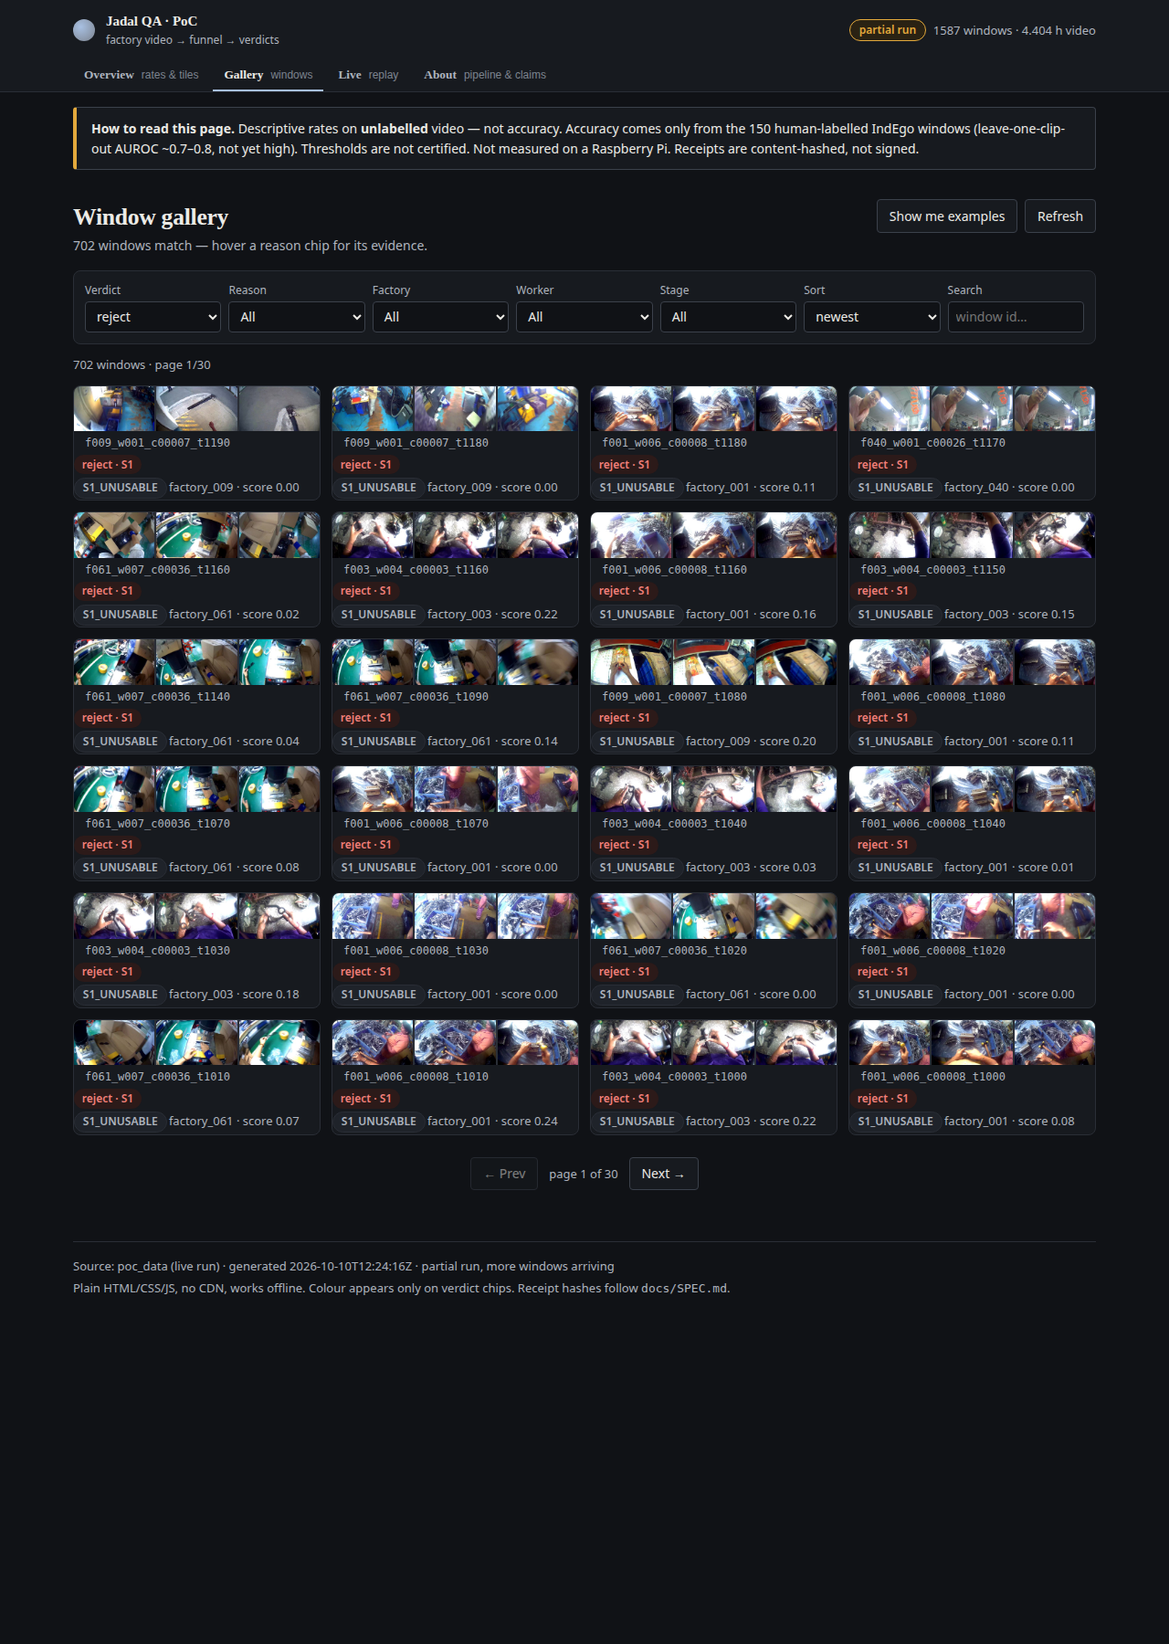
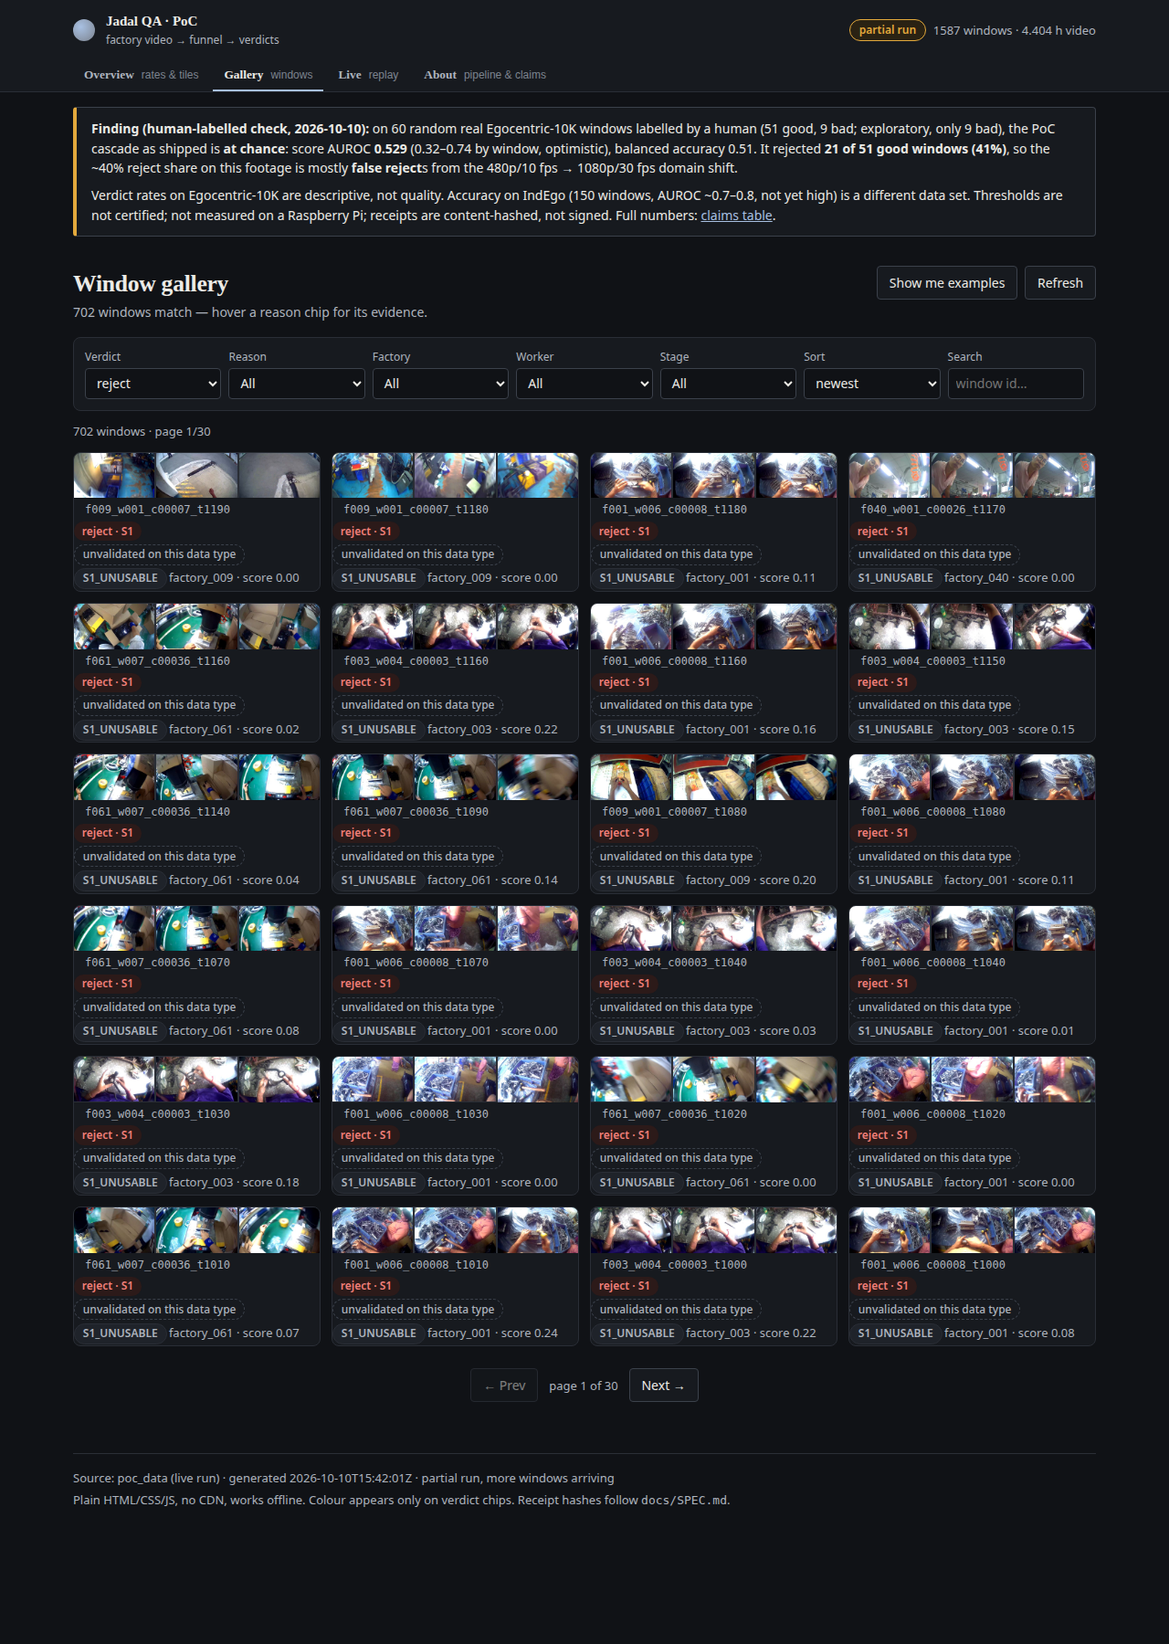
poc: retake screens from the current build; flag licensed frames; fold in poc_run report
- docs/screens/poc_*.png retaken with headless Chrome from the current code on
  real poc_data; each 1280-wide screen shows the out-of-domain banner.
- docs/screens/README.md and docs/PUBLIC_SNAPSHOT_EXCLUDE.txt: the screenshots
  and demo clip show real Egocentric-10K frames (licensed, private repo only);
  list the paths excluded from any public snapshot.
- .gitignore: .scratch/ and the regenerable fixture thumbnails.
- docs/reports/poc_run.md (from feat/poc-run): numbers now match
  run_summary.json (1587 unique windows, 709/702/176, partial false) and add
  the out-of-domain result.
- docs/reports/poc_dashboard.md and docs/POC_STATUS.md match the screens and
  point at the evidence files.

diff --git a/docs/POC_STATUS.md b/docs/POC_STATUS.md
@@ -8,19 +8,23 @@
 > ~0.7–0.8, not yet high) is a different data set. Thresholds are not certified.
 > Not measured on a Raspberry Pi. Receipts are content-hashed, not signed.
 
-## What runs (integration/poc, all merged)
+## What runs (integration/poc)
 
 - **Batch run** (`scripts/poc_run.py`): real Egocentric-10K 1080p/30fps HEVC
-  clips → 10-s windows → S0/S1 cascade → `poc_data/windows.jsonl` + 3 thumbs
-  per window + `summary.json` + content-hashed receipt per window.
+  clips -> 10-s windows -> S0/S1 cascade -> `poc_data/windows.jsonl` + 3 thumbs
+  per window + content-hashed receipt per window.
 - **Dashboard** (`scripts/poc_server.py`, stdlib only, offline, no CDN):
-  Overview tiles + reason bars + per-factory stacks + time-to-verdict,
-  Gallery with filters + pitch examples, Detail drawer with evidence table
-  and **Re-verify** button (`POST /api/reverify/<id>` → `poc_run.py --verify`),
-  Live replay panel, About claims table.
+  Overview, Gallery (filters, pitch selection), Detail drawer with Re-verify
+  (`POST /api/reverify/<id>` -> `poc_run.py --verify`, Host/Origin checked),
+  Live replay panel (scripted blackout, labelled as such), About claims table.
 - **Live replay** (`scripts/poc_stream_replay.py` + `jadal/poc_stream/`):
-  2-second chunks, scripted blackout/freeze/blur, S0 early reject, events to
-  `poc_data/stream_events.jsonl`.
+  2-second chunks of a real clip with a **scripted** blackout injected at t=12 s
+  (not from the footage) -> S0 early reject -> `poc_data/stream_events.jsonl`.
+- **Evidence and summaries** (committed, regenerable):
+  - `eval/poc/summarize.py` -> `eval/results/poc/run_summary.json` (counts, hours,
+    factories, latency percentiles, computed from `windows.jsonl` with dedupe).
+  - `eval/poc/ood_check.py` -> `eval/results/poc/ood_check_60.json` (the 60-window
+    human-labelled check below).
 
 ## How to start the demo (one command)
 
@@ -29,58 +33,77 @@
 # dashboard: http://localhost:8840/  (overview, gallery, live, about)
 ```
 
-- Serves the **real** `poc_data` (never `--demo-fixture`). Port 8840 is
-  currently served by pid 3824977 (poc-dashboard worktree, identical server
-  code, real data) — `poc_up.sh` detects and reuses it, kills nothing.
-- `--replay` replays a real clip in 2-s chunks with a blackout at t=12 s;
-  the Live panel then shows the early reject. Cleans up only PIDs it started.
+- Serves the **real** `poc_data` (never `--demo-fixture`). If port 8840 is already
+  served, `poc_up.sh` reports the owning PID and reuses it; it kills nothing it
+  did not start.
+- Paths are set by env vars with defaults: `JADAL_PY` (python3 on PATH),
+  `JADAL_POC_DATA` (`../poc_data`), `JADAL_CLIP_ROOT` (`../../awing/data/ego10k_scale/clips`).
 
 ## Measured numbers (from files, not claims)
 
-Batch run (`poc_data/summary.json` + `windows.clean.jsonl` snapshot, partial run):
+Batch run, from `eval/results/poc/run_summary.json` (`partial: false`):
 
-- 1587 windows · 4.404 h video · accept 709 (44.7%) · reject 702 (44.2%) ·
-  review/S2 176 (11.1%) · stages S1 1411 / S2 176 / S0 0
-- 0 duplicate window_ids, 0 malformed lines, 0 missing thumbs (4761 checked)
-- per-window sequential latency p50 548 ms / 10-s window (RTF ≈ 18×);
-  dashboard throughput tile 17.91 h video per wall-h; decode `cpu-sequential`
-- re-verify: **5/5** random windows reproduce stored `receipt_sha256`
-  (`f029…`, `f009…`, `f033…`, `f058…`, `f003…`, CPU sequential recompute)
-- full suite: **662 tests green** (4 skipped)
+- 1587 unique windows (0 duplicate, 0 malformed lines) · 4.404 h video · 58 clips · 47 factories
+- accept 709 (44.7%) · reject 702 (44.2%) · review/S2 176 (11.1%)
+- stages S0 0 / S1 1411 / S2 176
+- per-window sequential latency p50 548.1 ms, p90 699.2 ms (RTF about 18x; the
+  dashboard tile shows 17.91 video-hours per compute-hour, concurrency excluded)
+- Re-verify: 5 sampled windows reproduced their stored receipt in the run log
+  (not committed as a file; use `poc_run.py --verify <id>` to repeat one).
 
-Replay (measured 2026-10-10): 16 chunks, blackout at t=12 s → S0 `black`
+Replay (measured 2026-10-10): 16 chunks, scripted blackout at t=12 s -> S0 `black`
 rule fires (`p95 0.0 < 0.03`), time-to-reject 0.0 s of video, mean chunk
-latency 533.5 ms, 9.3 s wall, ~171 MB RAM, CPU decode.
+latency 533.5 ms, 9.3 s wall, ~171 MB RAM, CPU decode. The blackout is injected
+by the script; it is not an event in the footage.
 
-Accuracy (only labelled data, `eval/results/perpixel/compare.json`):
-nested leave-one-clip-out on 7 IndEgo clips / 150 windows — conv1d AUROC
-**0.782** (95% CI 0.63–0.86), quality-stage sens 0.714 / bal_acc 0.792.
+Accuracy on labelled IndEgo data (`eval/results/gpu/cascade.json`, the shipped
+S1 logistic head): leave-one-clip-out AUROC **0.80** (95% CI 0.71-0.87), n = 150,
+threshold 0.6. Not certified; n is small. A different model, the 1D-conv
+(`eval/results/perpixel/compare.json`, AUROC 0.782, CI 0.63-0.86), is not shipped.
 
 ## Human-labelled out-of-domain check
 
-60 random real Egocentric-10K windows, labelled by a human: 51 good, 9 bad
-(8 no active work, 1 shaky). Exploratory: n_bad = 9.
+`eval/results/poc/ood_check_60.json` (from `eval/poc/ood_check.py`): 60 random
+real Egocentric-10K windows, labelled by a human: 51 good, 9 bad. The labels are
+joined to the PoC verdicts by source clip and nearest window start. Exploratory:
+n_bad = 9 is below the pre-registered minimum of 10, and the window-level bootstrap
+CI is optimistic.
 
 - PoC cascade as shipped (IndEgo-calibrated): score AUROC **0.529**
-  (0.32–0.74 by window, optimistic); balanced accuracy 0.51.
-- Rejected **21 of 51 good windows (41%)** and 5 of 9 bad ones.
-- Frozen two-view ensemble on the same windows: AUROC 0.415.
-- Frozen per-pixel scorer on the same windows: AUROC 0.515.
+  (window-bootstrap CI 0.32-0.73); balanced accuracy 0.51.
+- Rejected **21 of 51 good windows (41%)**; 24 accepted, 6 review. Bad windows:
+  5 rejected, 4 accepted.
+- Two other scorers, **reported, not recomputed here** (they live on other
+  branches): frozen two-view ensemble `ensemble_v1` AUROC 0.415
+  (`handover/ood_eval_ensemble_v1_exploratory.txt`); frozen per-pixel scorer
+  AUROC 0.515 (`jadal-ops/explainer/FACTS.md`). The FACTS lines are copied into
+  the JSON with their source line numbers.
 - The ~40% reject share shown on Egocentric-10K is therefore mostly false
-  rejects, caused by the 480p/10 fps (IndEgo) → 1080p/30 fps HEVC (Egocentric-10K)
-  domain shift.
+  rejects, caused by the 480p/10 fps (IndEgo) -> 1080p/30 fps HEVC
+  (Egocentric-10K) domain shift.
 
 Verdict rates on this footage are descriptive, not quality.
 
-Source: `jadal-ops/explainer/FACTS.md`, section "UPDATE 2026-10-10 18:40".
+## Licensed frames in this repo (read before any public snapshot)
+
+- `docs/screens/poc_*.png` and `docs/screens/poc_demo_backup.mp4` show real
+  Egocentric-10K frames. The dataset is licensed. This repo is private; do not
+  make it public, and do not copy these files into a public snapshot.
+- `docs/PUBLIC_SNAPSHOT_EXCLUDE.txt` lists every path pattern to exclude from a
+  public snapshot. `docs/screens/README.md` explains the screenshots.
+- `tests/fixtures/poc/thumbs/` is git-ignored. Its JPEGs are generated by
+  `tests/make_poc_fixture.py` and are synthetic colour boxes; they are still
+  listed in the exclude file.
+- The per-pixel `.npz` files under `eval/results/perpixel/` are features derived
+  from the licensed footage (no pixels), and are listed too.
 
 ## Not claimed
 
-- **No Egocentric-10K quality claim**: the video is unlabelled in the batch run.
-  The 44.2% reject share is descriptive. The 60-window human-labelled check
-  measured AUROC 0.529 (chance), 21 of 51 good windows falsely rejected (41%),
-  balanced accuracy 0.51, and frozen two-view 0.415 / per-pixel 0.515 on the
-  same windows (see "Human-labelled out-of-domain check").
+- **No Egocentric-10K quality claim**: the batch run is unlabelled. The 44.2%
+  reject share is descriptive. The 60-window check measured AUROC 0.529 (chance),
+  21 of 51 good windows falsely rejected (41%), balanced accuracy 0.51
+  (`eval/results/poc/ood_check_60.json`); frozen two-view 0.415 and per-pixel
+  0.515 are reported from other branches.
 - Not measured on a Pi (RTX 4070 Laptop, not datacenter, not a Pi).
 - Receipts content-hashed (sha256), not signed; no certificate chain.
 - RGB only — no hyperspectral. Certified bounds not achievable at n=150.

diff --git a/docs/reports/poc_run.md b/docs/reports/poc_run.md
@@ -3,7 +3,10 @@
 **Honesty banner (binding): there are NO human labels for this Egocentric-10K
 video; every number below is a descriptive rate on unlabelled video, NOT
 accuracy.** Accuracy comes only from the 150 human-labelled IndEgo windows
-(LOCO AUROC 0.80, 95% CI 0.71–0.87 — wide, n=150 too small for certification).
+(shipped S1 logistic head, LOCO AUROC 0.80, 95% CI 0.71–0.87 — `eval/results/gpu/cascade.json`;
+wide, n=150 too small for certification). The one labelled check on THIS footage
+(60 windows, 51 good / 9 bad, n_bad below the pre-registered 10, so exploratory)
+is at chance: see "Out-of-domain result" below.
 Thresholds are not certified. Not measured on a Raspberry Pi. Receipts are
 content-hashed, not signed. RGB only (3 bands) — hyperspectral is NOT claimed.
 
@@ -43,39 +46,63 @@ Production: `cpu-sequential` (deterministic, no GPU contention). NVDEC chain B
 `flock tools/gpu.lock` (300 frames/10 s window in 2.33 s) but its pixels differ
 from CPU decode, so it is NOT mixed into one run. VRAM peak via nvidia-smi.
 
-## Results (`poc_data/summary.json`, generated 2026-10-10 ~12:15 UTC)
+## Results (`eval/results/poc/run_summary.json`, from `eval/poc/summarize.py --complete`)
 
-- **1587 windows, 4.404 h video from 58 clips** (47 factories/workers), `partial: false`
+- **1587 unique windows, 4.404 h video from 58 clips** (47 factories), `partial: false`
+  (the windows file has 1587 lines and 0 duplicates or malformed lines)
 - by_verdict: **accept 709 / reject 702 / review 176** (44.7% / 44.2% / 11.1%)
 - by_reason: S1_USABLE 709, S1_UNUSABLE 702, UNCERTAIN 176
-- by_stage: **S0 0 (0.0) / S1 1411 (0.889) / S2-review 176 (0.111)** — the S0
-  exact rules never fired on this well-lit moving factory footage, so the
-  early-reject tier exited nothing; all decisions fell to S1/S2.
-- throughput: **10.81 h video per wall hour (rtf 10.8)** across 3 parallel
-  CPU-sequential processes, ~24 min wall (first-to-last thumb mtime + startup);
-  features latency p50 548 ms/window (decode amortised per clip, O(1) memory)
-- decode_path: cpu-sequential ×1587; VRAM: none consumed (CPU-only run)
-- head: full-fit on 150 IndEgo gold, `head_sha256=d59955b512db1a1d…`,
-  threshold 0.6, margin 0.25
-- verify: `--verify` recompute MATCH; `--selfcheck 20` identical digests
-  (see below); `tests.test_poc_run` 9/9 pass
+- by_stage: **S0 0 / S1 1411 (88.9%) / S2 176 (11.1%)**. The S0 exact rules never
+  fired on this footage, so the early-reject tier exited nothing; all decisions
+  fell to S1 or S2 (handed on, not run).
+- latency per 10-s window (sequential, single process): p50 548.1 ms,
+  p90 699.2 ms, p99 1202.2 ms
+- throughput: **17.91 h video per h of summed sequential compute** (concurrency
+  and wall-clock not included; the dashboard tile shows the same value)
+- decode_path: cpu-sequential for all windows; no GPU memory used by the batch
+- head: full fit on the 150 IndEgo gold windows, `head_sha256=d59955b5…`,
+  threshold 0.6, margin 0.25 (`versions` in each window record)
+
+Re-verify: `scripts/poc_run.py --verify <WINDOW_ID>` recomputes one window and
+compares its receipt. Five sampled windows reproduced their stored receipt in the
+run log (not committed as a file).
+
+## Out-of-domain result (60 human-labelled windows)
+
+`eval/results/poc/ood_check_60.json` (from `eval/poc/ood_check.py`): the windows
+were labelled by a human (51 good, 9 bad) and joined to their verdicts by clip and
+start time.
+
+- PoC score AUROC **0.529** (window bootstrap 95% CI 0.316–0.728): chance.
+- **21 of 51 good windows falsely rejected** (41%); 24 accepted, 6 review.
+- bad windows: 4 accepted, 5 rejected.
+- balanced accuracy 0.51.
+- Exploratory: n_bad = 9 is below the pre-registered minimum of 10, and the
+  window-level CI is optimistic because windows from one clip are not independent.
+- Two other scorers, reported and not recomputed here: frozen two-view ensemble
+  0.415 (`handover/ood_eval_ensemble_v1_exploratory.txt`), per-pixel scorer 0.515
+  (`jadal-ops/explainer/FACTS.md`).
+
+So the ~44% reject share on this footage is mostly false rejects, not a quality
+measurement.
 
 ## Domain-shift finding
 
-The IndEgo head rejects most factory footage (bright, high-motion:
-luma_mean 0.53 vs 0.30 gold; luma_p05 z≈+26; temp_b2/motion_energy high) with
-p≈0 — the head's negatives were dark/frozen/blurred IndEgo, so a bright busy
-factory floor lands far from its training manifold. This is a descriptive
-finding about operating-point transfer, NOT an accuracy claim: the 0.6
-threshold does not transfer to Egocentric-10K without labelled calibration.
+The IndEgo head rejects most of this footage. The cause is operating-point
+transfer: the head was calibrated on 480p/10 fps IndEgo, and this input is
+1080p/30 fps HEVC. The out-of-domain check above shows the 0.6 threshold does not
+transfer without labelled calibration. Brightness statistics (luma_mean and
+similar) that suggest why are observations from the run notes and are not in a
+committed results file.
 
 ## Reproduce
 
 ```
-OMP_NUM_THREADS=2 /home/parshu/envs/jadal/bin/python scripts/poc_run.py --all --shard 0/3
-OMP_NUM_THREADS=2 /home/parshu/envs/jadal/bin/python scripts/poc_run.py --verify <WINDOW_ID>
-OMP_NUM_THREADS=2 /home/parshu/envs/jadal/bin/python scripts/poc_run.py --selfcheck 20
-OMP_NUM_THREADS=2 /home/parshu/envs/jadal/bin/python scripts/poc_run.py --summary
-PYTHONNOUSERSITE=1 JADAL_MODELS_DIR=/home/parshu/projects/jadal-qa/models \
-  /home/parshu/envs/jadal/bin/python -m unittest tests.test_poc_run
+# env: JADAL_PY (interpreter, default python3), JADAL_POC_DATA, JADAL_CLIP_ROOT
+OMP_NUM_THREADS=2 $JADAL_PY scripts/poc_run.py --all --shard 0/3
+OMP_NUM_THREADS=2 $JADAL_PY scripts/poc_run.py --verify <WINDOW_ID>
+OMP_NUM_THREADS=2 $JADAL_PY scripts/poc_run.py --selfcheck 20
+python3 eval/poc/summarize.py --complete
+python3 eval/poc/ood_check.py
+PYTHONNOUSERSITE=1 JADAL_MODELS_DIR=<models dir> $JADAL_PY -m unittest tests.test_poc_run
 ```

diff --git a/docs/reports/poc_dashboard.md b/docs/reports/poc_dashboard.md
@@ -7,8 +7,9 @@ SVG, no CDNs, works offline), served by `scripts/poc_server.py` (stdlib only,
 ## How to run
 
 ```
-python3 scripts/poc_server.py --demo-fixture   # fixture data (default: live poc_data)
-python3 tests/test_poc_dashboard.py            # 9 tests, ~0.6 s
+python3 scripts/poc_server.py --port 8840                 # real poc_data (JADAL_POC_DATA)
+python3 scripts/poc_server.py --demo-fixture --port 8849  # fixture data, for tests
+$JADAL_PY tests/test_poc_dashboard.py                      # 19 tests, ~1 s
 ```
 
 Server reads `poc_data/{summary.json,windows.jsonl,stream_events.jsonl,thumbs/}`
@@ -16,43 +17,72 @@ fresh on every request (3 s client poll, `partial run` badge while
 `summary.partial` is true). Latest-first gallery page uses a tail read
 (`collections.deque`); filtered views do one streaming pass. Thumbnails are
 served with basename + realpath containment checks. `POST /api/reverify/<id>`
-validates `^[A-Za-z0-9_.-]+$` and execs only
-`["python3", "scripts/poc_run.py", "--verify", <id>]` (60 s timeout); with no
-`poc_run.py` yet it returns 503 "not available yet".
+validates the id (`^[A-Za-z0-9_.][A-Za-z0-9_.-]*$`, so no leading `-`), checks
+that Host is `127.0.0.1:<port>` or `localhost:<port>` and that Origin is absent
+or the same origin (otherwise 403), and execs only
+`[$JADAL_PY, "scripts/poc_run.py", "--verify", <id>]` as an argv list (60 s
+timeout). `JADAL_PY` defaults to `python3` on PATH.
 
-## Screens (all verified by screenshot in `docs/screens/poc_*`)
+## Screens (retaken 2026-10-10 from the current build, port 8845, real poc_data)
+
+Each PNG was captured with headless Chrome (`--headless=new --window-size=W,H
+--virtual-time-budget=8000 --screenshot=...`) and viewed. Every 1280-wide screen
+shows the out-of-domain banner at the top. Screens with real Egocentric-10K
+frames are licensed; see `docs/screens/README.md`.
+
+- `poc_overview_1280.png` (1280x1000), `poc_overview.png` (1280x1800),
+  `poc_overview_390.png` (390x844, phone), `poc_overview_dark_1280.png`
+  (dark scheme): `#/overview`
+- `poc_gallery_1280.png` (`#/gallery`), `poc_gallery_rejects.png`
+  (`?verdict=reject#/gallery`)
+- `poc_detail_reverify.png` (`?wid=f069_w004_c00077_t0000#/gallery`, drawer open;
+  the Re-verify button sits below the fold of this capture)
+- `poc_live.png`, `poc_live_1280.png` (`#/live`): show the note "Replay: a real
+  clip, with a scripted blackout injected at t=12 s (not from the footage)."
+- `poc_about_1280.png` (`#/about`): the claims table, which links to the
+  evidence files in `docs/POC_STATUS.md`.
+
+Screens of the dashboard:
 
 1. **Overview** — tiles (windows, hours, accept/review/reject shares, ×/wall-hour,
    GPU label), verdict-by-reason bars, per-factory stacked bars, S0/S1/S2 stage
    split with early-reject share, honesty banner on every screen.
 2. **Gallery** — 3-thumb contact sheets, verdict + reason chips (evidence
    `value op threshold` on hover), 5 dropdown filters + search + sort +
-   pagination + "Show me examples" pitch set (12 accepted, 12 rejected/reason).
+   pagination + "Show me examples" pitch set. The pitch set is a SELECTION
+   (top-12 accepts by score, 12 rejects per reason), not a sample.
 3. **Drawer** — big thumbs, evidence table, features, receipt hash, versions,
    Re-verify button.
-4. **Live** — running-score sparkline per stream with the early-reject moment;
-   honest placeholder when `stream_events.jsonl` is absent.
+4. **Live** — running-score sparkline per stream with the early-reject moment.
+   The blackout is scripted and labelled as such on screen; honest placeholder
+   when `stream_events.jsonl` is absent.
 5. **About** — inline-SVG pipeline diagram + measured-vs-not-claimed table.
 
 ## Honesty
 
 All rates are labelled descriptive on unlabelled video. Accuracy cited only as
-AUROC ~0.7–0.8 on the 150 human IndEgo windows (not yet high). Not measured on
-a Pi; receipts hashed, not signed; RGB only.
+AUROC ~0.7–0.8 on the 150 human IndEgo windows (not yet high). On 60 human-labelled
+Egocentric-10K windows the shipped cascade is at chance (AUROC 0.529, exploratory,
+n_bad = 9). Not measured on a Pi; receipts hashed, not signed; RGB only.
+
+Evidence files (About table links to these): `eval/results/poc/run_summary.json`
+(batch counts), `eval/results/poc/ood_check_60.json` (out-of-domain check),
+`eval/results/gpu/cascade.json` (IndEgo LOCO, shipped S1 head).
 
 ## Status / next
 
-Developed against `tests/fixtures/poc/` (60 windows, contract-exact, generated
-by `tests/make_poc_fixture.py`). Still to do: point at real `poc_data` once the
-run worker lands (~15–20 min), re-screenshot with real thumbs, confirm Re-verify
-against the real `poc_run.py`. No files outside `web/poc/`, `scripts/poc_server.py`,
-`docs/reports/poc_dashboard.md`, `docs/screens/poc_*`, `tests/` were touched.
+The dashboard runs on real `poc_data` (1587 windows). Header note: while
+`poc_data/summary.json` still has `partial: true` (written by
+`scripts/poc_summary.py` without `--complete`), the header shows "partial run".
+`eval/results/poc/run_summary.json` is the committed source for the counts and
+has `partial: false`. Re-verify runs the real `scripts/poc_run.py --verify`.
+Fixture (`tests/fixtures/poc/`) is used only by the tests.
 
 ## Real command outputs
 
 ```
-$ python3 tests/test_poc_dashboard.py
-Ran 9 tests in 0.601s — OK
-$ curl -s localhost:8840/api/summary | python3 -c "import json,sys; print(sorted(json.load(sys.stdin)))"
+$ python3 -m unittest tests.test_poc_dashboard
+Ran 19 tests — OK
+$ curl -s 127.0.0.1:8840/api/summary | python3 -c "import json,sys; print(sorted(json.load(sys.stdin)))"
 ['by_factory', 'by_reason', 'by_verdict', 'generated_utc', 'hours', 'has_stream', 'live', 'n_windows', 'partial', 'source', 'throughput']
 ```

diff --git a/docs/screens/README.md b/docs/screens/README.md
@@ -1,0 +1,18 @@
+# Screenshots and demo clip (docs/screens)
+
+**Licensed data, private repo only.** The `poc_*` files in this directory show
+real frames from the Egocentric-10K dataset (factory head-camera video). That
+data is licensed and may not be redistributed. Keep this repository private, and
+never copy these files into a public snapshot.
+
+- `poc_*.png`: dashboard screens. The gallery and drawer show real Egocentric-10K
+  thumbnails. The Overview, Live and About screens show text and charts only.
+- `poc_demo_backup.mp4`: pre-rendered demo clip, rendered from real stream events
+  and real footage. The blackout at t=12 s is scripted, not from the footage.
+- Regenerate the PNGs from the current build (`scripts/poc_server.py` on a port
+  you own, then headless Chrome with `--window-size` per file, see
+  `docs/reports/poc_dashboard.md`). Do not commit new frames without updating
+  `docs/PUBLIC_SNAPSHOT_EXCLUDE.txt`.
+
+The other screenshots in this directory (`batches-*`, `queue-*`, `segment-*`, and
+so on) are not Egocentric-10K content and are not listed in the exclude file.
